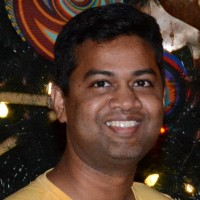
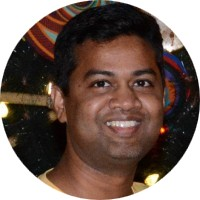
Checked in with css changes

Changed region(s): [[0.51, 0.0, 1.0, 1.0], [0.0, 0.57, 0.48, 1.0], [0.0, 0.0, 0.48, 0.48]]

diff --git a/index.html b/index.html
@@ -4,6 +4,7 @@
 <head>
     <meta charset="UTF-8">
     <title>Bhaski's Personal Website</title>
+    <link rel="stylesheet" href="css/styles.css">
 </head>
 
 <body>
@@ -12,7 +13,7 @@
             <td><img src="images\profile.jpg" , alt="Bhaski's profile pic"></td>
             <td>
                 <h1>Bhaski's Personal Site</h1>
-                <p><em>Hey there!<strong> <a href="https://www.linkedin.com/in/bhaskaranmani/"">Bhaski</a></strong> here.</em></p>
+                <p><em>Hey there!<strong> <a href="https://www.linkedin.com/in/bhaskaranmani/">Bhaski</a></strong> here.</em></p>
                 <p>I love coding. Starting with Web Development now.</p></td>
     </tr>
     </table>
@@ -38,7 +39,7 @@
         </thead>
         <tbody>
             <tr>
-                <td>SiriusXM</td>
+                <td>Hmmm</td>
                 <td>Dec 2022-Current</td>
             </tr>
             <tr>

diff --git a/css/styles.css b/css/styles.css
@@ -1,0 +1,26 @@
+body {
+    background-color: #eaf6f6;;
+}
+
+hr {
+    /* background-color: white; */
+    /* border-style: dotted none none; */
+    border-style: none;
+    border-top: dotted;
+    border-color: gray;
+    border-width: 5px;
+    height: 0px;
+    width: 5%;
+}
+
+h1 {
+    color: #439A97;
+}
+
+h3 {
+    color: #86C8BC;
+}
+
+img {
+    background-color: #eaf6f6;
+}

diff --git a/contact.html b/contact.html
@@ -3,6 +3,7 @@
 <head>
     <meta charset="UTF-8">
     <title>Contact Me</title>
+    <link rel="stylesheet" href="css/styles.css">
 </head>
 <body>
     <h3>Contact Me</h3>

diff --git a/hobbies.html b/hobbies.html
@@ -3,6 +3,7 @@
 <head>
     <meta charset="UTF-8">
     <title>Hobbies</title>
+    <link rel="stylesheet" href="css/styles.css">
 </head>
 <body>
     <h3>My hobbies</h3>
